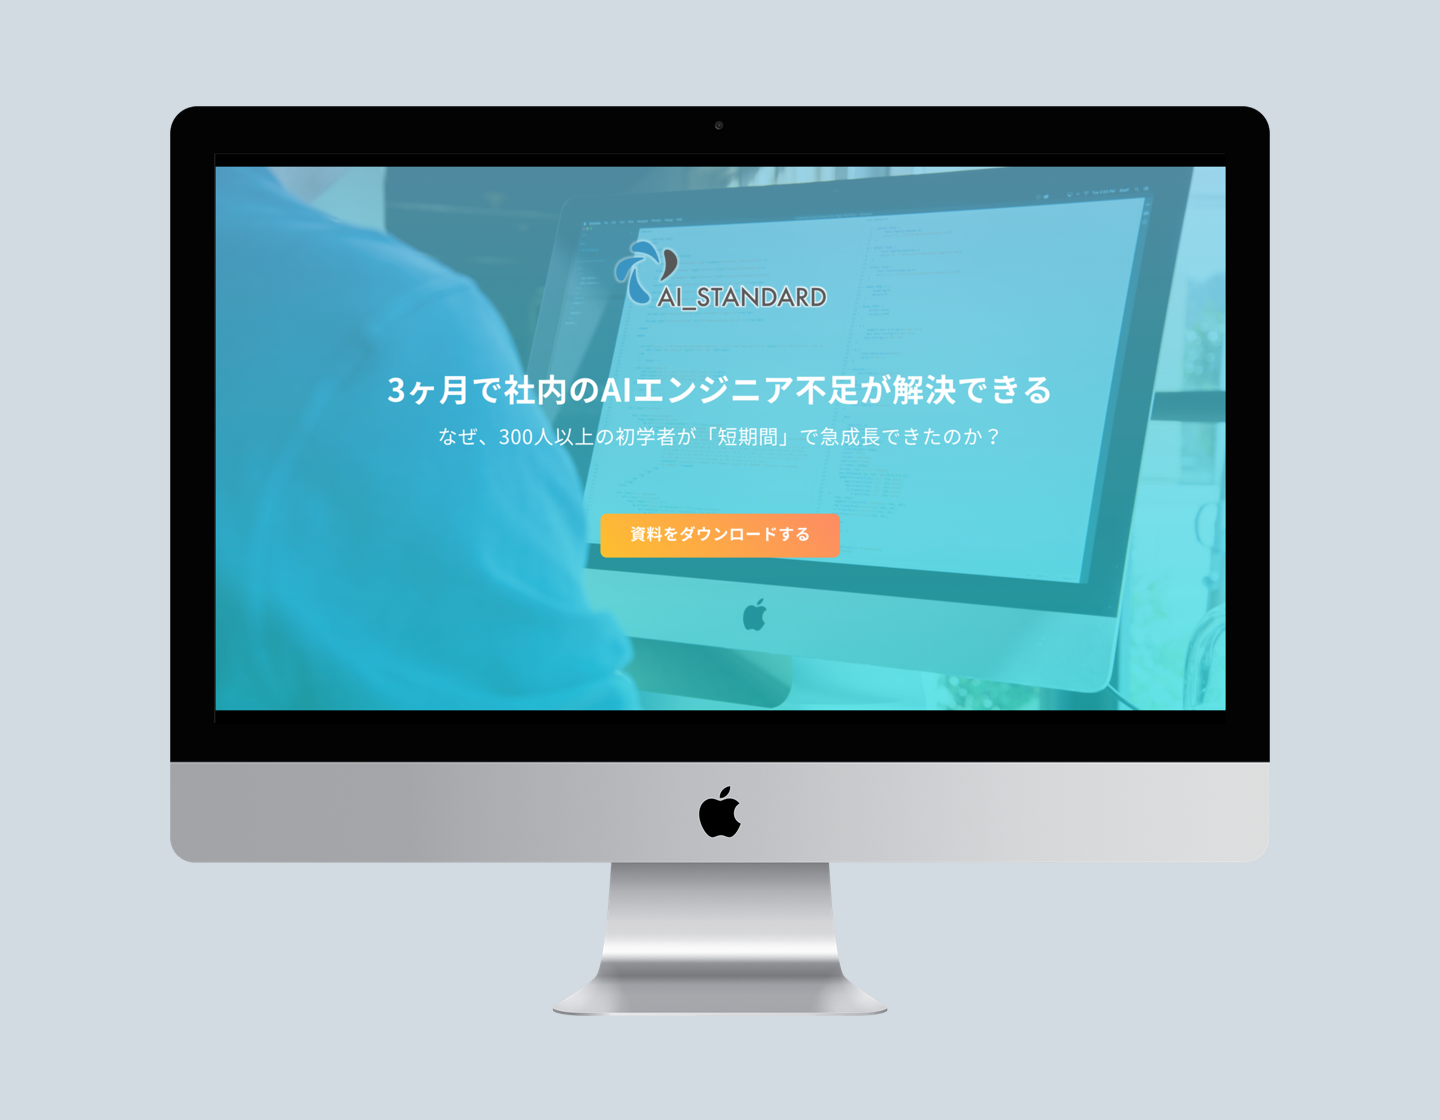
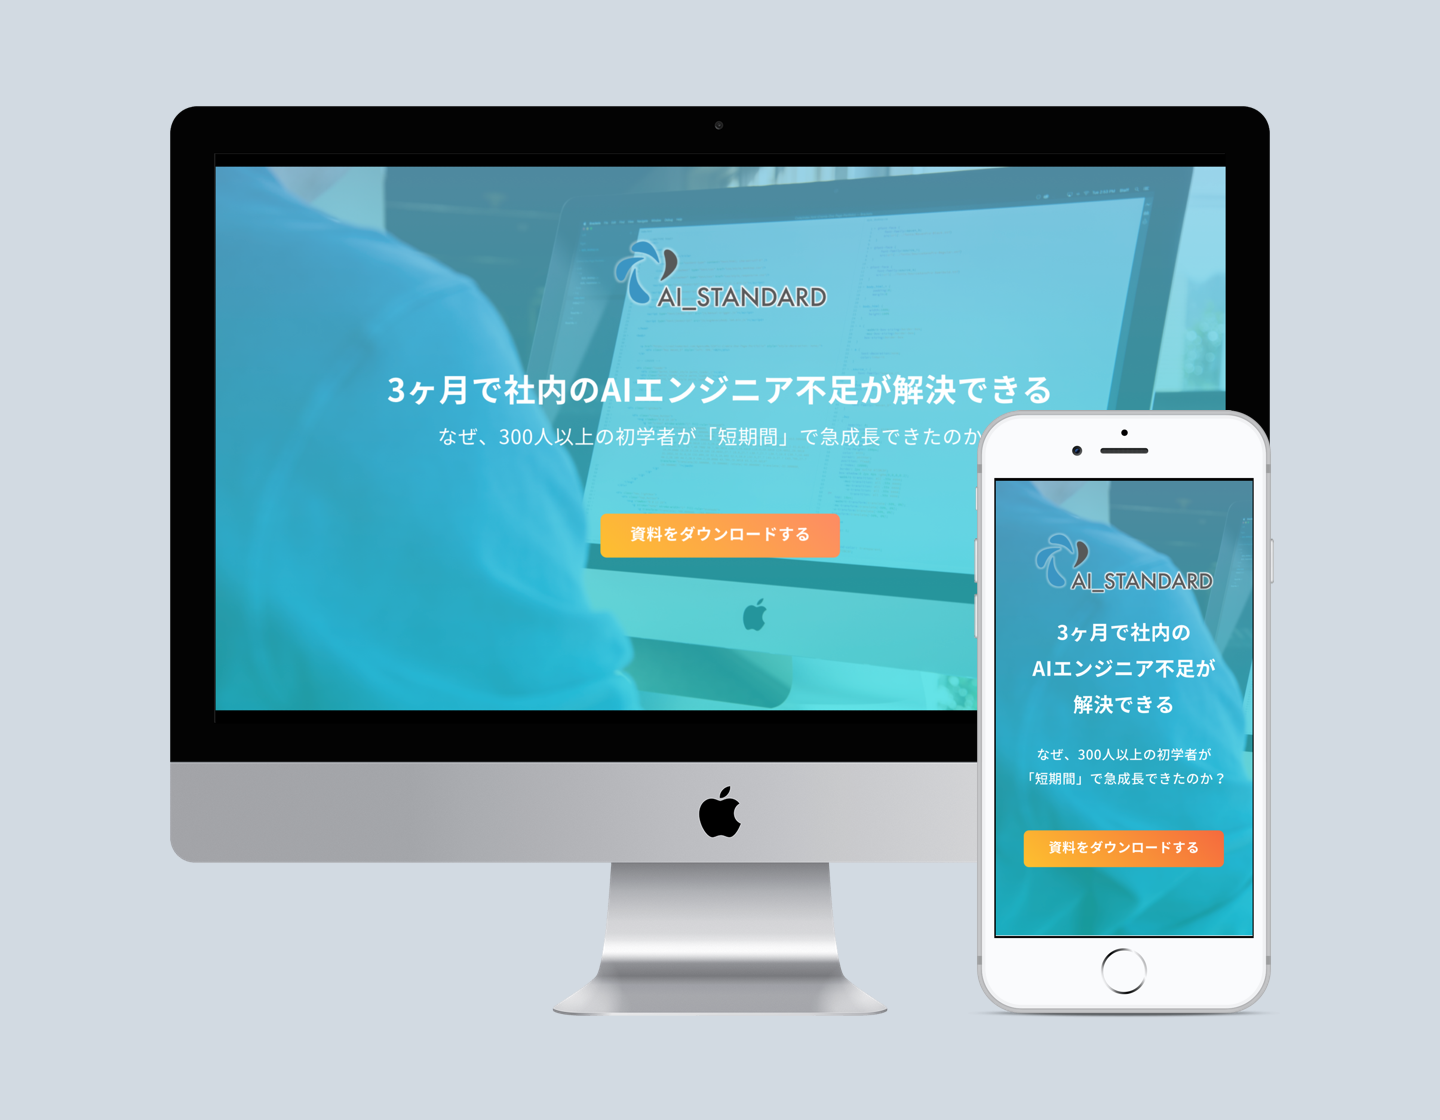
スマホ版修正

Changed region(s): [[0.6562, 0.3438, 0.9062, 0.9062]]

diff --git a/single2.html b/single2.html
@@ -42,7 +42,8 @@
 <section>
   <div class="intro">
     <div class="intro__sub">
-      <img src="assets/img/single2_thumb.png" alt="">
+      <img src="assets/img/single2_thumb.png" alt="" class="invisible_sp">
+      <img src="assets/img/works_thumb_sample2.png" alt="" class="invisible_pc">
     </div>
     <div class="intro__main">
       <p class="intro__main__title">AI_STANDARD</p>
@@ -50,7 +51,9 @@
       <p class="intro__main__year">2017.10 - 2018.01</p>
       <p class="intro__main__desc">3ヶ月で社内のAI人材不足を解消できる研修サービス「AI_STADARD」のランディングページです。情報設計からデザイン、コーディングまでを担当しました。
       <br>注意したのは<strong>信頼感を全面に押し出す</strong>という点です。依頼してくれた方にヒアリングした結果、今回は採用担当者、つまり、ある程度AIについて知見がある人を対象にしたいということでした。そんなペルソナがある中で、
-      小手先のかっこいいAIを押し出したサイトを作っても担当者には刺さりません。そこで、研修後の成長をイメージしてもらい、その上で信頼感を持って読み進めてもらうことにしました。</p>
+      小手先のかっこいいAIを押し出したサイトを作っても担当者には刺さりません。そこで、研修後の成長をイメージしてもらい、その上で信頼感を持って読み進めてもらうことにしました。<br>
+      進め方としては、今回はヒアリングからコンセプトを設計し、複数パターンを提案しました。そこから、1つに絞り込みをし、ビジュアルの作り込みをしています。
+      </p>
     </div>
     <div class="intro__detail">
       <div class="intro__detail__thumb">
@@ -61,8 +64,6 @@
         <img src="assets/img/single2_thumb_sample2.png" alt="">
       </div>
       <p class="intro__detail__desc"><strong>清潔感のある青</strong>をベースに、フラットなアイコンや固すぎず丸すぎない適度なバランスを持つフォントであるNoto Sansを使用して、<strong>信頼感を徹底的に演出</strong>するようにしています。</p>
-      <br>
-      <p class="intro__detail__desc">最後に進め方に関してです。今回はヒアリングからコンセプトを設計し、複数パターンを提案しました。そこから、1つに絞り込みをし、ビジュアルの作り込みをしました。</p>
     </div>
     <hr>
     <div class="transition">

diff --git a/index.html b/index.html
@@ -77,7 +77,7 @@
     </div>
     <div class="about__main">
       <p class="about__main__head">林 侑希</p>
-      <p class="about__main__desc">1996年生まれ。愛媛県出身。<br>初心者向けにプログラミングを教えるTECH::CAMPのメンターとして活動する。メンター活動と並行して<br>興味があったデザインの勉強を開始。TECH::CAMPを運営するdivで経験を積んだ後、制作会社など様々な<br>会社でインターン。メインはアプリのUIやWebサイトのデザインです。</p>
+      <p class="about__main__desc">1996年生まれ。愛媛県出身。<br>初心者向けにプログラミングを教えるTECH::CAMPのメンターとして活動する。<br class="invisible_sp">メンター活動と並行して興味があったデザインの勉強を開始。TECH::CAMPを運営するdivで経験を積んだ後、<br class="invisible_sp">制作会社など様々な会社でインターン。メインはアプリのUIやWebサイトのデザインです。</p>
       <p class="about__main__career">2016.06 - 2017.12 div inc, Designer Parttime<br>2017.06 - 2017.12 DENDESIGN inc, Designer Parttime<br>2017.08 - Goodpatch inc, Designer Intern<br>2017.11 - PLAID inc, Designer Parttime<br>2018.01 - CROWDPORT inc, Designer Parttime</p>
     </div>
   </div>

diff --git a/assets/css/index.css b/assets/css/index.css
@@ -416,6 +416,16 @@ body {
   -o-object-fit: contain;
      object-fit: contain;
 }
+@media only screen and (min-width: 961px) {
+  .intro__sub img img {
+    display: none;
+  }
+}
+@media only screen and (min-width: 600px) and (max-width: 960px) {
+  .intro__sub img img {
+    display: none;
+  }
+}
 @media only screen and (max-width: 599px) {
   .intro__sub img img {
     width: 100%;
@@ -703,6 +713,11 @@ section {
   opacity: 1;
   transition: .3s ease-in-out;
 }
+@media only screen and (max-width: 599px) {
+  .works__main img {
+    width: 320px;
+  }
+}
 .works__main__title {
   font-family: 'Noto Sans CJK JP', sans-serif;
   font-weight: 700;
@@ -890,6 +905,11 @@ section {
 }
 
 @media only screen and (min-width: 961px) {
+  .invisible_pc {
+    display: none;
+  }
+}
+@media only screen and (min-width: 600px) and (max-width: 960px) {
   .invisible_pc {
     display: none;
   }

diff --git a/single.html b/single.html
@@ -42,7 +42,8 @@
 <section>
   <div class="intro">
     <div class="intro__sub">
-      <a href="https://vrarrangement.jp/"><img src="assets/img/single_thumb.png" alt=""></a>
+      <a href="https://vrarrangement.jp/"><img src="assets/img/single_thumb.png" alt="" class="invisible_sp"></a>
+      <a href="https://vrarrangement.jp/"><img src="assets/img/works_thumb_sample1.png" alt="" class="invisible_pc invisible_tb"></a>
     </div>
     <div class="intro__main">
       <p class="intro__main__title">VR/ARrangement</p>

diff --git a/single3.html b/single3.html
@@ -42,7 +42,8 @@
 <section>
   <div class="intro">
     <div class="intro__sub">
-      <img src="assets/img/single3_thumb.png" alt="">
+      <img src="assets/img/single3_thumb_v2.png" alt="" class="invisible_sp">
+      <img src="assets/img/works_thumb_sample3.png" alt="" class="invisible_pc">
     </div>
     <div class="intro__main">
       <p class="intro__main__title">Lispo</p>

diff --git a/src/scss/base/_single.scss b/src/scss/base/_single.scss
@@ -12,6 +12,18 @@
       height: auto;
       object-fit: contain;
 
+      @include pc_style {
+        img {
+          display: none;
+        }
+      }
+
+      @include tb_style {
+        img {
+          display: none;
+        }
+      }
+
       @include sp_style {
         img {
           width: 100%;

diff --git a/src/scss/block/_header.scss b/src/scss/block/_header.scss
@@ -63,6 +63,10 @@ section {
       opacity: 1;
       -webkit-transition: .3s ease-in-out;
       transition: .3s ease-in-out;
+
+      @include sp_style {
+        width: 320px;
+      }
     }
     &__title {
       font-family: 'Noto Sans CJK JP', sans-serif;

diff --git a/src/scss/block/_global.scss b/src/scss/block/_global.scss
@@ -29,6 +29,12 @@ body {}
   }
 }
 
+@include tb_style {
+  .invisible_pc {
+    display: none;
+  }
+}
+
 @include sp_style {
   .invisible_sp {
     display: none;
